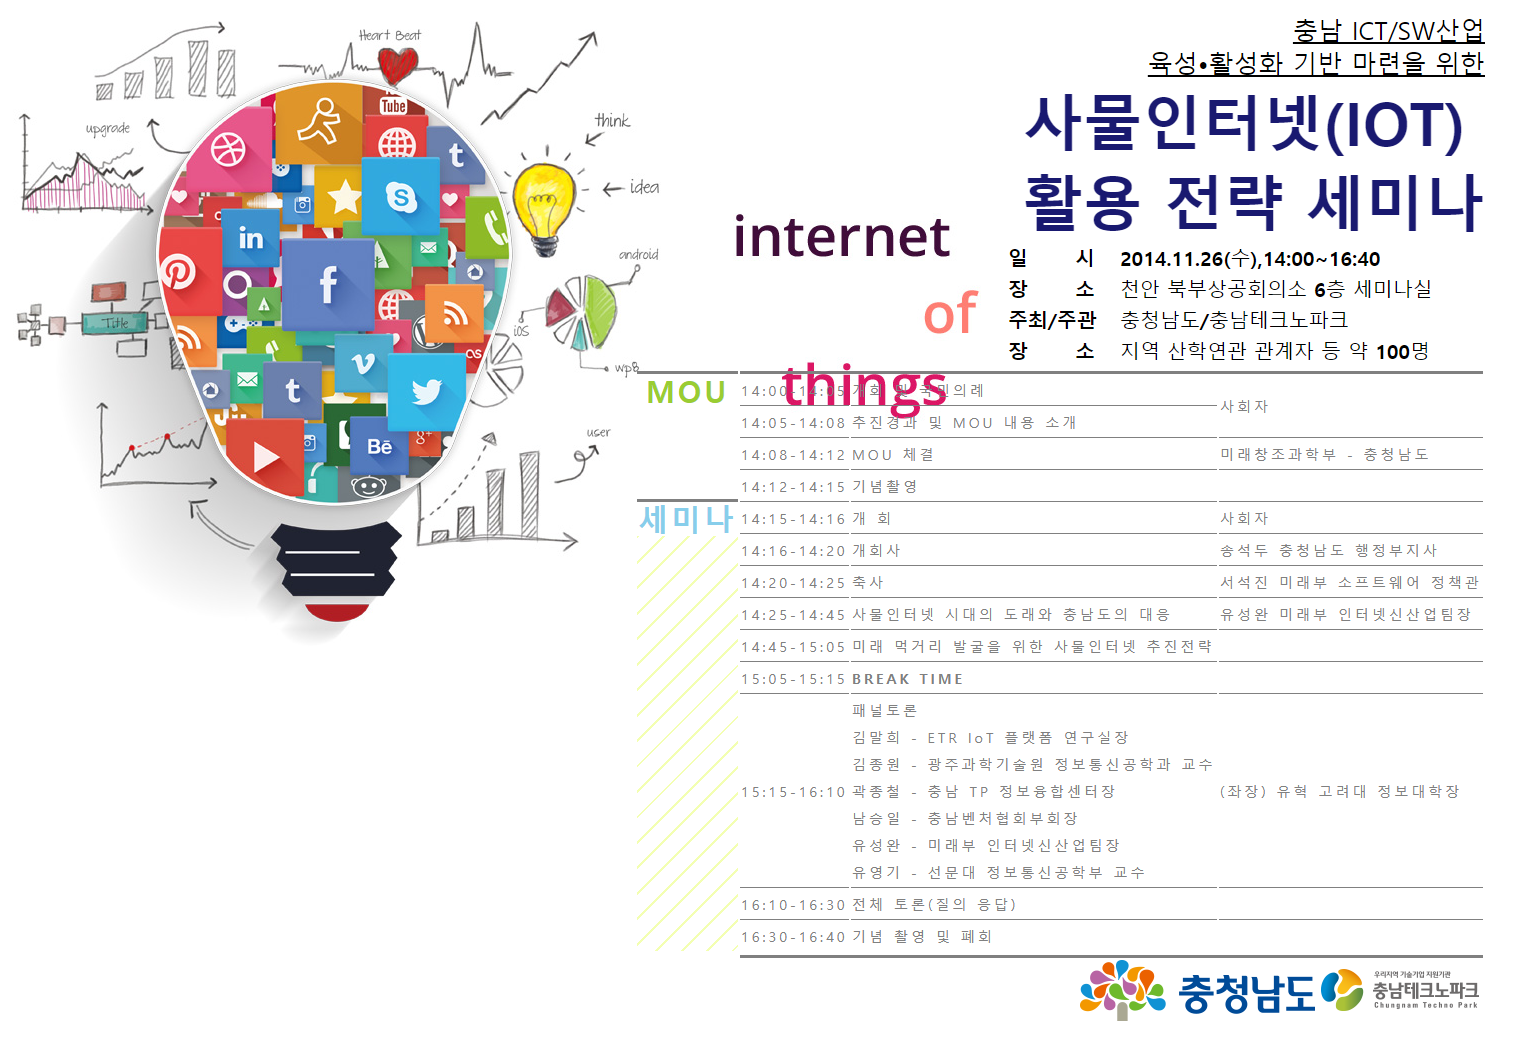
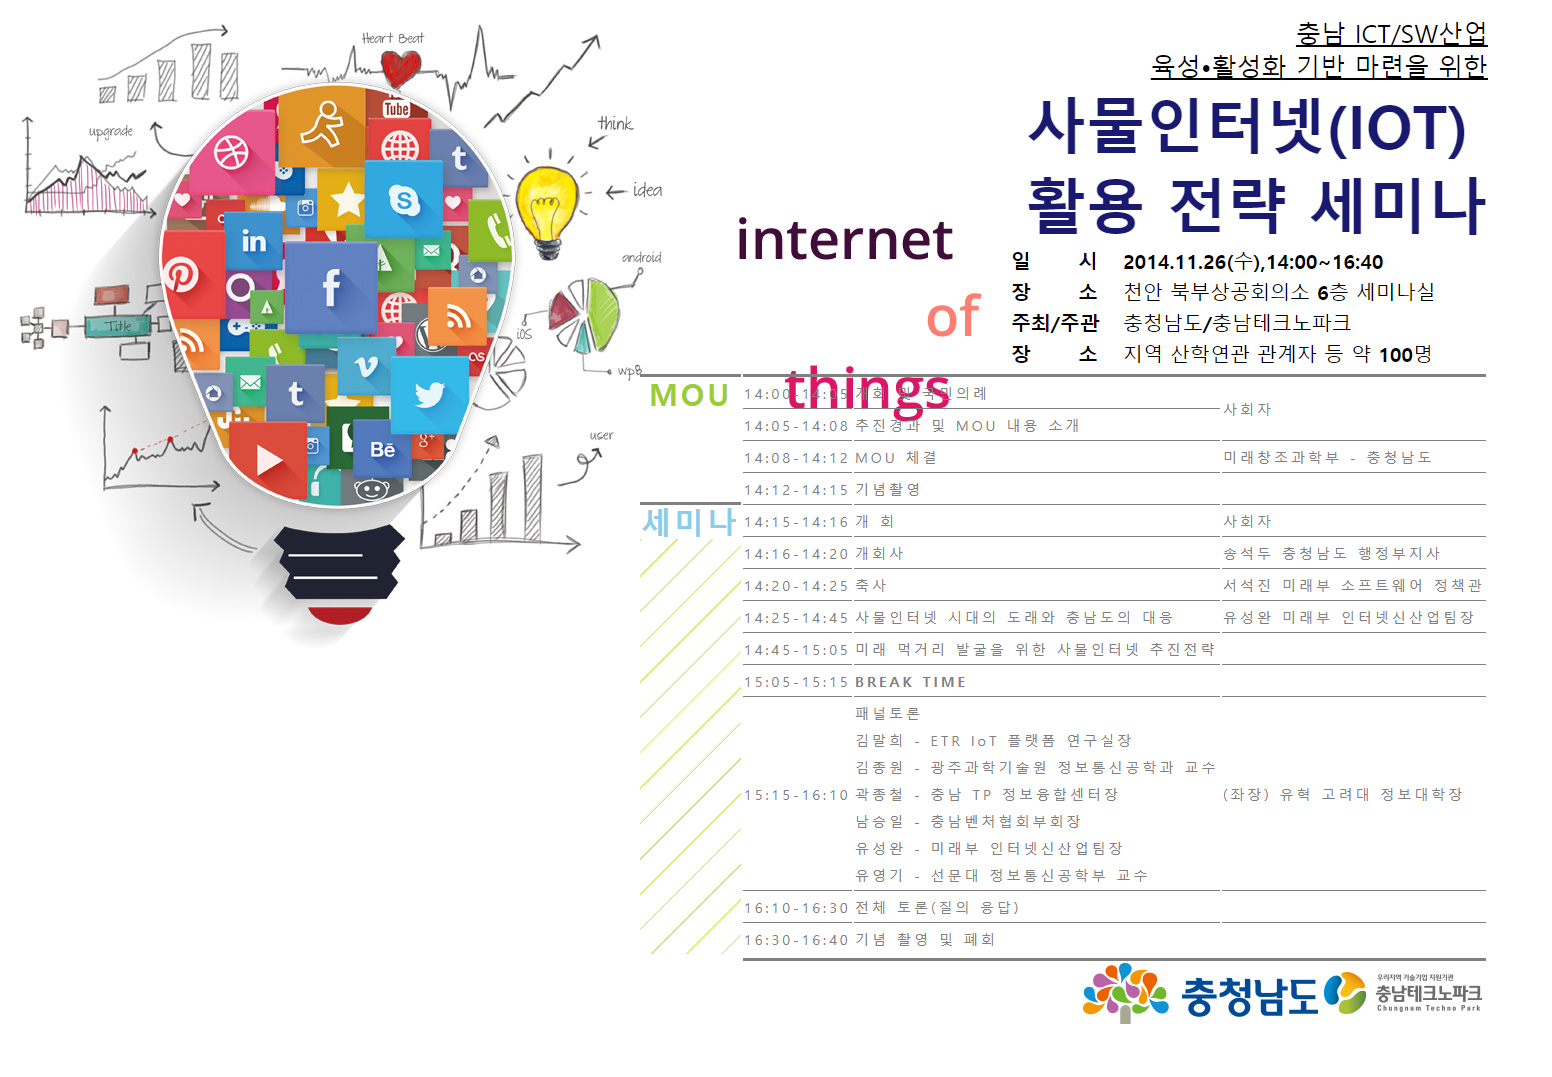
study

diff --git a/201521166_소프트웨어학과_김우남.html b/201521166_소프트웨어학과_김우남.html
@@ -20,10 +20,10 @@
             .big{height:auto; width:1480px }
             #linear{ background: repeating-linear-gradient(
                  135deg,
-             rgb(243, 255, 178) 0,
-             rgb(243, 255, 178) 2px,
              rgb(255, 255, 255) 0,
-             rgb(255, 255, 255) 18px
+             rgb(200, 223, 72) 2px,
+             rgb(255, 255, 255) 0,
+             rgb(255, 255, 255) 25px
         );}
         </style>
     </head>
